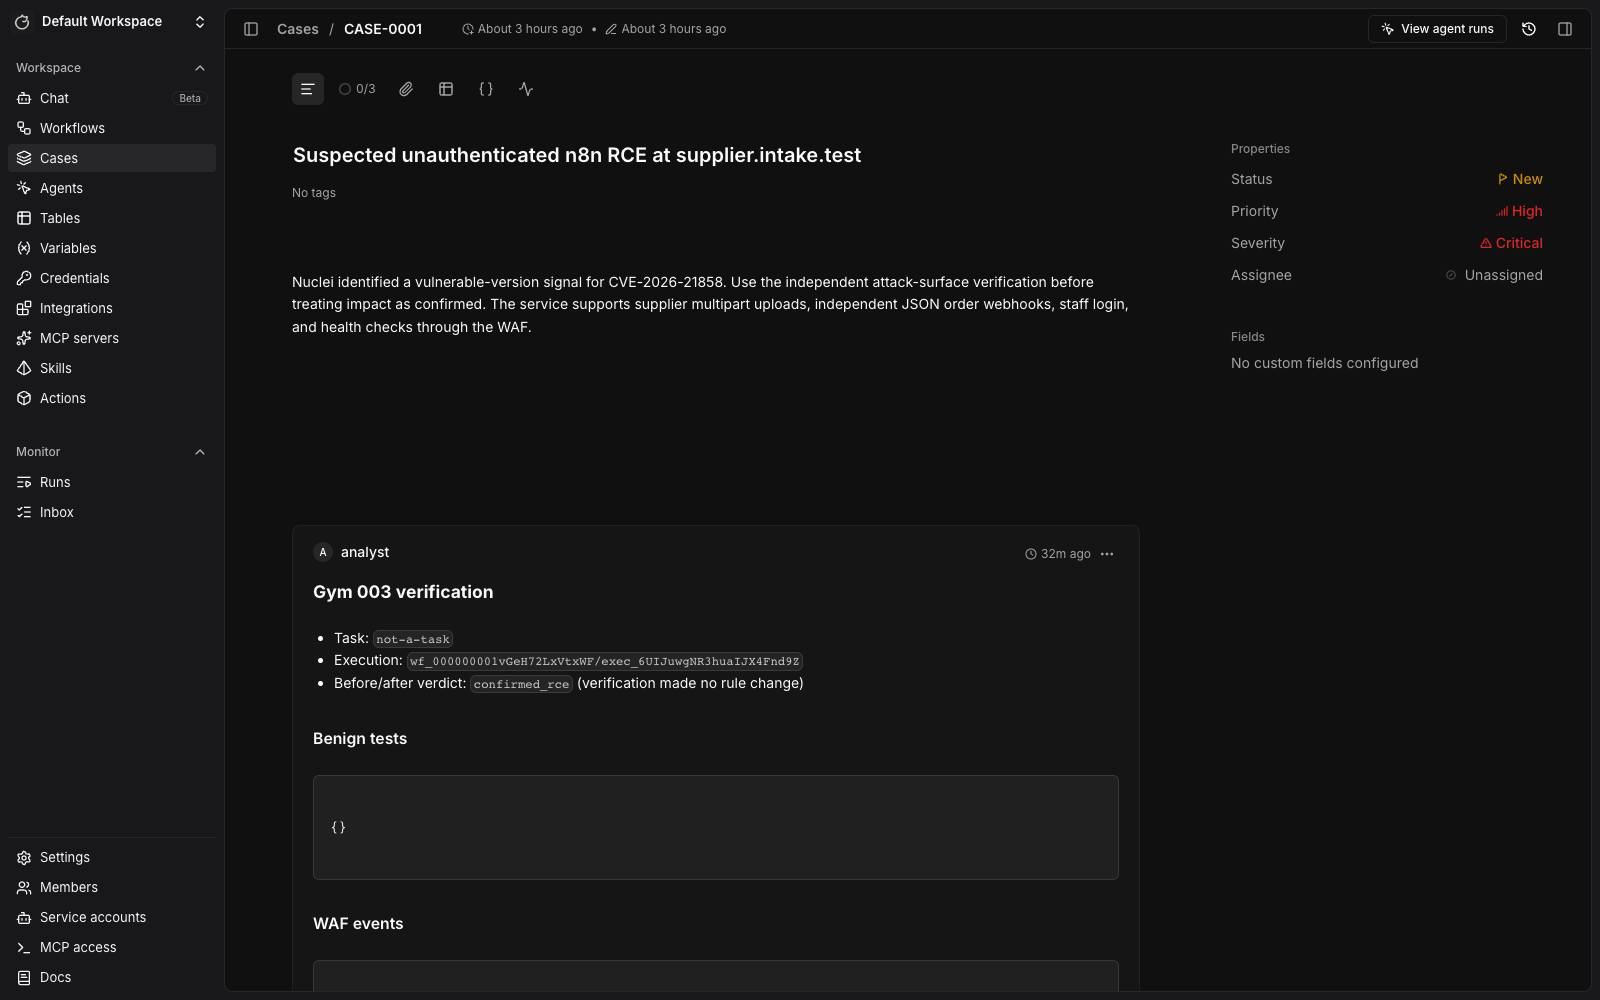
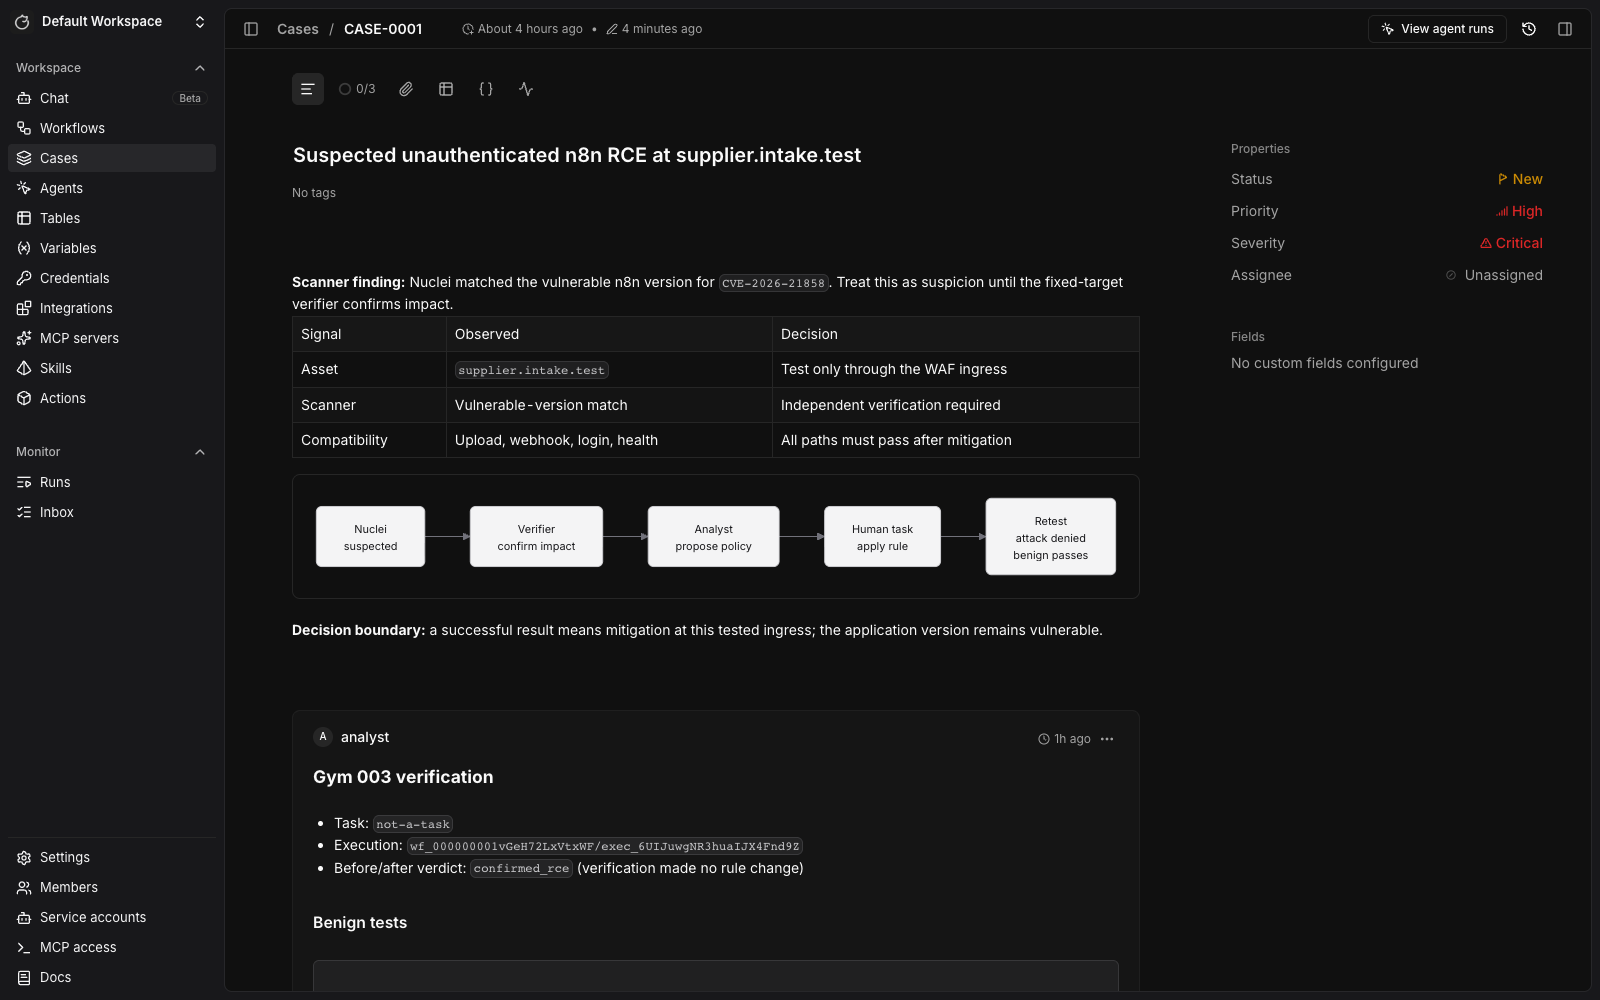
docs: polish Gym 003 customer demo

diff --git a/003/src/gym_plugin/reconcile.py b/003/src/gym_plugin/reconcile.py
@@ -25,6 +25,24 @@ ATTACK_SURFACE_SLUG = "gym-003-attack-surface"
 MITIGATION_ANALYST_SLUG = "gym-003-mitigation-analyst"
 SECRET_NAME = "gym_003_test_api"
 SECRET_KEY = "TOKEN"
+CASE_DESCRIPTION = """**Scanner finding:** Nuclei matched the vulnerable n8n version for `CVE-2026-21858`. Treat this as suspicion until the fixed-target verifier confirms impact.
+
+| Signal | Observed | Decision |
+| --- | --- | --- |
+| Asset | `supplier.intake.test` | Test only through the WAF ingress |
+| Scanner | Vulnerable-version match | Independent verification required |
+| Compatibility | Upload, webhook, login, health | All paths must pass after mitigation |
+
+```mermaid
+flowchart LR
+    A["Nuclei<br/>suspected"] --> B["Verifier<br/>confirm impact"]
+    B --> C["Analyst<br/>propose policy"]
+    C --> D["Human task<br/>apply rule"]
+    D --> E["Retest<br/>attack denied<br/>benign passes"]
+```
+
+**Decision boundary:** a successful result means mitigation at this tested ingress; the application version remains vulnerable.
+"""
 
 
 class ReconcileError(RuntimeError):
@@ -52,12 +70,7 @@ def request(
 def desired_case() -> dict[str, Any]:
     return {
         "summary": f"Suspected unauthenticated n8n RCE at {ASSET}",
-        "description": (
-            "Nuclei identified a vulnerable-version signal for CVE-2026-21858. "
-            "Use the independent attack-surface verification before treating impact as "
-            "confirmed. The service supports supplier multipart uploads, independent JSON "
-            "order webhooks, staff login, and health checks through the WAF."
-        ),
+        "description": CASE_DESCRIPTION,
         "status": "new",
         "priority": "high",
         "severity": "critical",
@@ -141,6 +154,23 @@ def reconcile_case(
         payload.get(k) != v for k, v in immutable.items()
     ):
         raise ReconcileError("managed case identity fields have drifted")
+
+    desired = desired_case()
+    content_patch = {
+        field: desired[field]
+        for field in ("summary", "description")
+        if actual.get(field) != desired[field]
+    }
+    if content_patch:
+        request(
+            client,
+            "PATCH",
+            f"/workspaces/{workspace_id}/cases/{case['id']}",
+            body=content_patch,
+            expected=(204,),
+        )
+        log(f"updated case presentation {DEDUP_KEY}")
+        actual = {**actual, **content_patch}
     return actual
 
 

diff --git a/001/README.md b/001/README.md
@@ -97,139 +97,3 @@ The Splunk license expires at **2026-11-10T07:59:59Z**. Rotate it with:
 ```bash
 just rotate-license FILE=/absolute/path/to/Splunk.License
 ```
-
-## Demo walkthrough
-
-Enable dark mode and use a 1600 × 1000 browser window for the same framing as
-the reference images.
-Gym 001 has its own Tracecat database, so configure its model even if another
-gym is already configured. Start the stack first:
-
-```sh
-cd /Users/chris/repos/gyms/001
-SPLUNK_ACCEPT_TERMS=yes just up
-just wait
-```
-
-Open <http://127.0.0.1:18080/organization/settings/agent>, add the OpenAI
-credential, and select `gpt-5.6-terra` as the organization default. Keep the key
-out of shell history, README files, screenshots, and case comments. After the
-provider shows as configured, run:
-
-```sh
-just reconcile
-just status
-just check
-```
-
-`just status` must report CASE-0001, the `validation_gates` table, the SOC
-Analyst preset, the **Splunk — Gym 001** MCP integration, all 17 locked tools,
-and the expected 2,236,985 indexed events.
-
-### 1. Open The Bigger Interview alert
-
-**Action:** Open <http://127.0.0.1:18080>, select **Cases**, open CASE-0001, and
-select the **Payload** tab.
-
-**Expected state:** The case contains the published cloud alert and its original
-investigation context. The case is the entity to which the agent session and
-final report will be attached.
-
-![Gym 001 Bigger Interview case](docs/screenshots/01-case-overview.png)
-
-**Presenter notes:** “This is a native Tracecat case backed by the fixed Bigger
-Interview telemetry. The investigation begins from the alert; the validation
-gates are kept separate so the investigator cannot read its answer key.”
-
-### 2. Show the SOC Analyst preset
-
-**Action:** Select **Agents** and open **Gym 001 SOC Analyst**.
-
-**Expected state:** The managed SOC Analyst preset is visible with OpenAI
-`gpt-5.6-terra` and **Splunk — Gym 001** attached. The separately managed
-evaluation grader can also appear on this page; it has no investigation tools.
-
-> Screenshot pending: capture `docs/screenshots/02-agents.png` after the Gym 001
-> OpenAI provider is connected and reconciliation creates the preset.
-
-**Presenter notes:** “The preset is reusable, but each evaluation creates a new
-case-scoped session. Its evidence source is Splunk; the grading rubric is not
-attached to the agent.”
-
-### 3. Verify the Splunk MCP integration
-
-**Action:** Select **MCP servers** and scroll to **Splunk — Gym 001**. Capture
-the integration card showing **Connected · 17 tools**. For a live demo, select
-**Configure** afterward to inspect the enabled tool list, but do not capture or
-project credential fields.
-
-**Expected state:** The integration card is connected and reports 17 tools.
-Reconciliation has separately verified the pinned internal URI, HTTP
-authentication shape, and the exact approval-free, read-only Splunk tool set.
-
-![Gym 001 Splunk MCP integration](docs/screenshots/03-splunk-integration.png)
-
-**Presenter notes:** “The agent queries the same isolated Splunk instance every
-time. Reconciliation validates the URI, auth shape, connection, exact tool set,
-and approval-free read policy before an evaluation starts.”
-
-### 4. Run and inspect a fresh investigation
-
-**Action:** From the Gym 001 directory run exactly one evaluation:
-
-```sh
-just eval
-```
-
-When it finishes, open CASE-0001, click **View agent runs**, and select the newest
-case-scoped SOC Analyst session. Expand one representative Splunk tool call,
-then return to the completed response before capturing the screenshot so both
-the evidence path and conclusion are legible.
-
-**Expected state:** The session shows the analyst moving from the alert into
-Splunk searches, pivots, and evidence-backed conclusions. Use only the actual
-tool calls and outcome produced by this run in a demo.
-
-> Screenshot pending: capture `docs/screenshots/04-investigation-run.png` from
-> the fresh case-scoped evaluation described above.
-
-**Presenter notes:** “The agent forms and tests hypotheses against fixed
-telemetry. Point out the query sequence and the evidence returned, rather than
-describing a predetermined conclusion.”
-
-### 5. Review the report and validation gates
-
-**Action:** Return to the case and show the latest investigation report comment
-to establish that the completed response was delivered to the case. Then select
-**Tables** → **validation_gates** and capture the table as the fifth screenshot.
-Keep the newest `results.json` and `run-01/score.json` files in `eval-results/`
-available if the audience asks for scoring details.
-
-**Expected state:** The case contains the completed report from the same session.
-The screenshot shows the separate benchmark-gate table; the latest artifacts
-truthfully record which gates passed and failed for that run.
-
-> Screenshot pending: capture `docs/screenshots/05-final-result.png` after the
-> completed report and validation-gate results are available.
-
-**Presenter notes:** “The report is delivered where an analyst works: on the
-case. The validation gates remain separate during investigation and are applied
-afterward. State the observed result exactly; do not turn a partial score into a
-success claim.”
-
-### Repeat the demo
-
-After preserving the session link, screenshots, and evaluation JSON, replace
-only the managed alert case and its case-scoped chats:
-
-```sh
-just reset-evals CONFIRM=artifacts-captured
-just reconcile
-just status
-just check
-```
-
-Splunk data, the MCP integration, presets, credentials, validation table, and
-host-side `eval-results/` remain. Use
-`just clean-restart CONFIRM=artifacts-captured` only when you intend to recreate
-all Gym 001 service volumes.

diff --git a/003/README.md b/003/README.md
@@ -121,15 +121,16 @@ README, screenshot, or case comment.
 **Action:** Open <http://127.0.0.1:38080>, select **Cases**, and open
 **CASE-0001 — Suspected unauthenticated n8n RCE at supplier.intake.test**.
 
-**Expected state:** The case is Critical/High and says Nuclei found a
-CVE-2026-21858 vulnerable-version signal. It also says independent verification
-is required before impact is confirmed.
+**Expected state:** The case is Critical/High. Its Markdown description presents
+the Nuclei version signal in a compact evidence table and renders a Mermaid flow
+from scanner suspicion through verification, proposal, human action, and retest.
 
 ![Gym 003 case and scanner evidence](docs/screenshots/01-case-overview.png)
 
 **Presenter notes:** “The scanner starts the investigation, but the gym treats a
-version match as suspicion. The case names the supplier upload surface and the
-benign traffic that a mitigation must preserve.”
+version match as suspicion. The table defines the evidence and compatibility
+boundary; the diagram previews the human-controlled path from finding to verified
+mitigation.”
 
 ### 2. Show the two specialist agents
 
